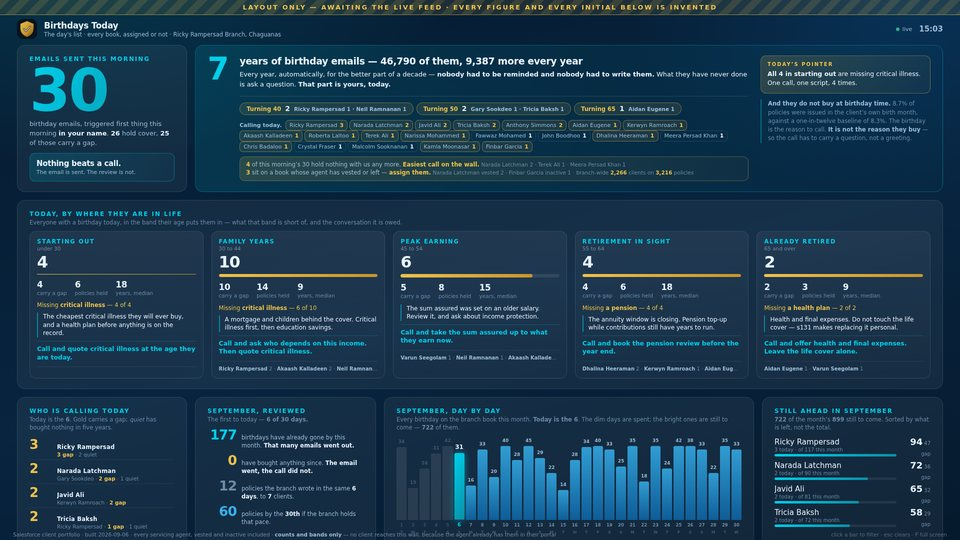
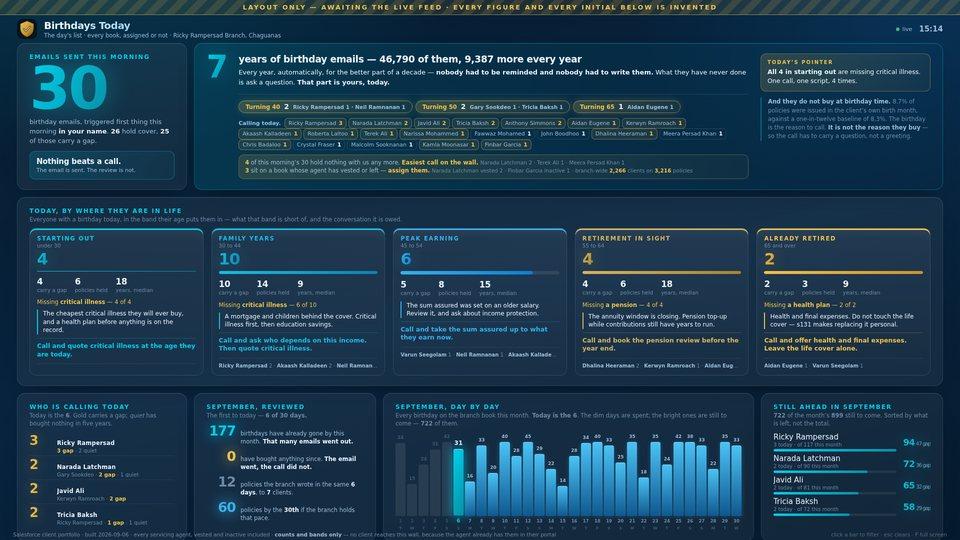
Make it read from the back of the room
A design pass, and every part of it is colour, an inset shadow or a filter —
this layout is three fixed rows totalling 968px with no spare pixel anywhere, so
nothing here is allowed to cost height.

THE FIVE BANDS NOW READ AS ONE JOURNEY, cool to warm: bright teal at the start of
a working life through to the branch gold at the end of it, with the accent
carried through each band's label, its number, its meter, its talking point and
its instruction. Somebody crossing the room can tell which end of the wall they
are looking at before they read a word. A 3px rule on top of five cards would
have cost fifteen pixels, so it is an inset shadow instead. Gold still means a
gap on every band — the accent says which stage this is, gold says something is
missing, and that has to mean the same thing on all five.

The rest: a spotlight on the body so the cards have an edge to catch and the wall
has a top; today's bar in the day strip burns and the days ahead glow while the
spent ones go grey; every headline number carries its own light. The live dot
beats.

AND THE FOOTER WAS SITTING ON THE BOTTOM ROW OF CARDS. Fixed rows plus a fixed
footer means any change to the header slides the last row under it, which is
what a bigger heading did — the source line was drawn across the cards and no
per-card check could see it, because nothing was clipped. The header gives back
eight pixels and the gaps four; the lowest card now ends at 1056 against a footer
[…]

Changed region(s): [[0.0312, 0.3852, 0.9688, 0.9778], [0.0312, 0.0296, 0.9688, 0.3556]]

diff --git a/intelligence/wall/book.html b/intelligence/wall/book.html
@@ -39,7 +39,12 @@
   }
   *{box-sizing:border-box}
   html,body{height:100%;min-height:100vh}
-  body{margin:0;font-family:var(--font-b);color:var(--ink);background:#061c31;
+  /* A SPOTLIGHT, NOT A FLAT FIELD. Two thousand pixels of one navy reads as a
+     spreadsheet from the back of a room; a light source above the hero gives
+     the cards an edge to catch and the whole wall a top. Costs nothing in
+     layout — it is one gradient on the body. */
+  body{margin:0;font-family:var(--font-b);color:var(--ink);
+    background:#061c31 radial-gradient(1500px 780px at 14% -12%,#0d3454 0%,#082742 42%,#061c31 78%) fixed;
     overflow:hidden;-webkit-font-smoothing:antialiased}
   body::before{content:"";position:fixed;inset:0;z-index:-1;
     background:
@@ -51,11 +56,17 @@
   header .mark{width:40px;height:40px;flex:none;border-radius:12px;overflow:hidden;
     background:#07131f;display:grid;place-items:center}
   header .mark img{width:40px;height:40px;display:block}
-  header h1{margin:0;font-family:var(--font-d);font-size:17px;font-weight:800;letter-spacing:-.3px}
+  header h1{margin:0;font-family:var(--font-d);font-size:20px;font-weight:800;
+    letter-spacing:-.5px;background:linear-gradient(100deg,#ffffff,#9fd8ff);
+    -webkit-background-clip:text;background-clip:text;color:transparent;width:max-content}
   header .sub{font-size:11.5px;color:var(--dim);margin-top:1px}
   header .right{margin-left:auto;display:flex;align-items:center;gap:14px}
   .live{display:inline-flex;align-items:center;gap:6px;font-size:11px;color:var(--dim)}
   .live i{width:7px;height:7px;border-radius:50%;background:var(--gold)}
+  /* A wall nobody is standing at should still look alive from the door. */
+  .live.on i{background:var(--good);animation:beat 2.4s var(--ease) infinite}
+  @keyframes beat{0%,100%{box-shadow:0 0 0 0 rgba(52,211,153,.55)}
+                  70%{box-shadow:0 0 0 9px rgba(52,211,153,0)}}
   .live.on i{background:var(--good);animation:pulse 2.2s infinite}
   @keyframes pulse{0%,100%{opacity:1}50%{opacity:.5}}
   #clock{font-family:var(--font-d);font-weight:700;font-size:15px;
@@ -96,15 +107,19 @@
      to itself it set a floor of 630px on a 390px phone and pushed every card
      off the side of the screen. */
   .card{background:var(--card);border:1px solid var(--line);border-radius:var(--r);
-    padding:16px 18px;min-height:0;min-width:0;display:flex;flex-direction:column}
+    padding:16px 18px;min-height:0;min-width:0;display:flex;flex-direction:column;
+    /* inset, so the highlight costs no height — a 1px outset rule would push
+       every card down and this wall has no spare pixels anywhere */
+    box-shadow:inset 0 1px 0 rgba(255,255,255,.075), 0 18px 40px -28px rgba(0,0,0,.75)}
   .card h3{margin:0 0 2px;font:700 12px var(--font-b);letter-spacing:.16em;
     text-transform:uppercase;color:var(--teal)}
   .card .cap{font-size:11.5px;color:var(--faint);margin:0 0 9px;line-height:1.4}
 
   .hero{grid-column:1;justify-content:center}
-  .hero .big{font-family:var(--font-d);font-weight:800;font-size:58px;line-height:.9;
-    letter-spacing:-4px;background:var(--grad-teal);-webkit-background-clip:text;
-    background-clip:text;color:transparent}
+  .hero .big{font-family:var(--font-d);font-weight:800;font-size:64px;line-height:.9;
+    letter-spacing:-4.5px;background:var(--grad-teal);-webkit-background-clip:text;
+    background-clip:text;color:transparent;width:max-content;
+    filter:drop-shadow(0 0 26px rgba(0,207,234,.42))}
   .hero .cap2{font-size:13px;color:var(--dim);margin-top:6px;line-height:1.45}
   .hero .cap2 b{color:var(--ink)}
   .hero .split{display:flex;gap:20px;margin-top:18px;padding-top:16px;border-top:1px solid var(--line)}
@@ -145,10 +160,16 @@
   .row .track{height:6px;background:rgba(255,255,255,.07);border-radius:3px;margin-top:3px;overflow:hidden}
   .row .track i{display:block;height:100%;border-radius:4px;background:var(--grey);
     transition:width .55s var(--ease)}
-  .row .track i.gold{background:var(--grad-gold)} .row .track i.accent{background:var(--grad)}
-  .row .track i.teal{background:var(--grad-teal)}
+  .row .track i.gold{background:var(--grad-gold);box-shadow:0 0 12px rgba(239,194,75,.4)}
+  .row .track i.accent{background:var(--grad);box-shadow:0 0 12px rgba(55,177,236,.4)}
+  .row .track i.teal{background:var(--grad-teal);box-shadow:0 0 12px rgba(0,207,234,.45)}
   .row .val{font-family:var(--font-d);font-weight:700;font-size:16px;text-align:right;
     font-variant-numeric:tabular-nums}
+  /* The month leaderboard's own numbers, lit like the rest of the wall. */
+  .month .row .val{font-size:24px;letter-spacing:-1px;background:var(--grad-teal);
+    -webkit-background-clip:text;background-clip:text;color:transparent;
+    filter:drop-shadow(0 0 14px rgba(0,207,234,.40))}
+  .month .row .val small{-webkit-text-fill-color:var(--faint);filter:none}
   /* This wall counts clients in the thousands and shows a share beside them, so
      the value column needs more room than the other three walls give it —
      "9,592 72%" was clipping to "9,592 7:". */
@@ -259,7 +280,9 @@
     background:linear-gradient(100deg,rgba(0,207,234,.13),rgba(0,207,234,.02));
     border-color:rgba(0,207,234,.30);padding:15px 22px}
   .years .yn{font-family:var(--font-d);font-weight:800;font-size:62px;line-height:.86;
-    letter-spacing:-3px;color:var(--teal);flex:none}
+    letter-spacing:-3px;flex:none;background:var(--grad-teal);
+    -webkit-background-clip:text;background-clip:text;color:transparent;
+    filter:drop-shadow(0 0 20px rgba(0,207,234,.38))}
   .years .ytxt{flex:1;min-width:0}
   .years .hd{font-family:var(--font-d);font-weight:800;font-size:19px;color:var(--ink);
     letter-spacing:-.4px;margin-bottom:6px}
@@ -273,8 +296,10 @@
   /* The chip names the agent. A round-number birthday nobody is told about is
      just another Tuesday, and the branch asked for the names on the big ones. */
   .years .mile{display:inline-flex;align-items:baseline;gap:8px;
-    border:1px solid rgba(239,194,75,.4);background:rgba(239,194,75,.10);
-    border-radius:999px;padding:4px 13px}
+    border:1px solid rgba(239,194,75,.45);
+    background:linear-gradient(120deg,rgba(239,194,75,.20),rgba(239,194,75,.06));
+    border-radius:999px;padding:4px 13px;
+    box-shadow:0 0 18px -6px rgba(239,194,75,.5), inset 0 1px 0 rgba(255,255,255,.10)}
   .years .mile i{font-style:normal;font:800 11.5px var(--font-b);color:var(--gold)}
   .years .mile u{text-decoration:none;font-family:var(--font-d);font-weight:800;font-size:14px;
     color:var(--ink);line-height:1}
@@ -318,10 +343,15 @@
   .mrows{display:grid;grid-auto-flow:column;grid-auto-columns:minmax(0,1fr);gap:3px;align-items:end;
     flex:1;min-height:0;padding-top:4px}
   .mcol{display:flex;flex-direction:column;justify-content:flex-end;height:100%;gap:5px;min-width:0}
-  .mcol .bar{background:linear-gradient(180deg,rgba(55,177,236,.85),rgba(11,127,212,.6));
-    border-radius:3px 3px 1px 1px;min-height:2px}
-  .mcol.past .bar{background:rgba(255,255,255,.09)}
-  .mcol.now .bar{background:var(--grad-teal);box-shadow:0 0 14px rgba(0,207,234,.5)}
+  /* THE RUNWAY IS LIT AND THE SPENT DAYS ARE NOT. Same shape as before, but the
+     days still to come now glow and today burns — from the back of the room the
+     eye lands on the sixth before it reads a single number. */
+  .mcol .bar{background:linear-gradient(180deg,#4cc3f5,rgba(11,127,212,.55));
+    border-radius:4px 4px 1px 1px;min-height:2px;
+    box-shadow:0 0 10px rgba(55,177,236,.30), inset 0 1px 0 rgba(255,255,255,.35)}
+  .mcol.past .bar{background:rgba(255,255,255,.085);box-shadow:none}
+  .mcol.now .bar{background:var(--grad-teal);
+    box-shadow:0 0 22px rgba(0,207,234,.75), inset 0 1px 0 rgba(255,255,255,.6)}
   .mcol .ml{font:600 8.5px var(--font-b);color:var(--faint);text-align:center;
     font-variant-numeric:tabular-nums}
   .mcol.past .ml{opacity:.38}
@@ -341,15 +371,32 @@
      wide enough to push the fifth band off the edge of the card. */
   .clist{display:grid;grid-template-columns:repeat(5,minmax(0,1fr));gap:16px;
     overflow:hidden;flex:1;align-content:stretch}
+  /* THE FIVE BANDS READ AS ONE JOURNEY, COOL TO WARM. Each stage carries its own
+     accent — bright teal at the start of a working life, the branch gold at the
+     end of it — and the accent runs through the band's label, its number, its
+     meter and its instruction, so a person crossing the room can tell which end
+     of the wall they are looking at before they read a word. Every part of it is
+     colour or an INSET shadow: this row has no spare pixels, and a 3px rule on
+     top of five cards would cost fifteen. */
   .band{display:flex;flex-direction:column;min-height:0;
     border:1px solid var(--line);border-radius:13px;padding:13px 14px;
-    background:linear-gradient(180deg,rgba(255,255,255,.05),rgba(255,255,255,.015))}
+    --a:var(--teal); --a2:var(--teal2);
+    background:linear-gradient(180deg,rgba(255,255,255,.05),rgba(255,255,255,.015));
+    box-shadow:inset 0 3px 0 var(--a), inset 0 26px 34px -26px rgba(255,255,255,.09)}
+  .band:nth-child(1){--a:#00CFEA; --a2:#0891a8}
+  .band:nth-child(2){--a:#19BEE4; --a2:#0b83b4}
+  .band:nth-child(3){--a:#37B1EC; --a2:#0b7fd4}
+  .band:nth-child(4){--a:#D8B45E; --a2:#a8842f}
+  .band:nth-child(5){--a:#EFC24B; --a2:#c9942c}
   .band.empty{opacity:.42}
   .band .bk{font:800 11.5px var(--font-b);letter-spacing:.15em;text-transform:uppercase;
-    color:var(--teal)}
+    color:var(--a)}
   .band .br{font-size:10.5px;color:var(--faint);margin-top:1px}
   .band .bn{font-family:var(--font-d);font-weight:800;font-size:32px;line-height:1;
-    letter-spacing:-1.4px;margin:5px 0 8px}
+    letter-spacing:-1.4px;margin:5px 0 8px;width:max-content;
+    background:linear-gradient(120deg,var(--a),var(--a2));
+    -webkit-background-clip:text;background-clip:text;color:transparent;
+    filter:drop-shadow(0 0 16px color-mix(in srgb,var(--a) 34%,transparent))}
   /* NO CHIPS. Two initials per person were on here for a day and the branch's
      answer was the right one: an agent already has these clients in their
      portal, so the wall does not need to identify anybody — it needs to say
@@ -361,6 +408,7 @@
   .led{display:grid;grid-template-columns:58px minmax(0,1fr);gap:10px;align-items:baseline}
   .led .n{font-family:var(--font-d);font-weight:800;font-size:27px;line-height:1;
     letter-spacing:-1.2px;text-align:right}
+  .led.sent .n,.led.back .n,.led.proj .n{filter:drop-shadow(0 0 14px currentColor)}
   .led .t{font-size:11.5px;color:var(--dim);line-height:1.35}
   .led .t b{color:var(--ink);font-weight:600}
   .led.sent .n{color:var(--teal)}
@@ -375,11 +423,15 @@
 
   .band .meter{height:7px;border-radius:4px;background:rgba(255,255,255,.09);
     overflow:hidden;margin-bottom:9px}
-  .band .meter i{display:block;height:100%;background:var(--grad-gold);border-radius:4px}
+  .band .meter i{display:block;height:100%;border-radius:4px;
+    background:linear-gradient(120deg,var(--a),var(--a2));
+    box-shadow:0 0 12px color-mix(in srgb,var(--a) 45%,transparent)}
   .band .facts{display:flex;gap:16px;margin-bottom:9px}
   .band .facts div{font-size:10.5px;color:var(--faint);line-height:1.3}
   .band .facts b{display:block;font-family:var(--font-d);font-weight:800;font-size:17px;
     color:var(--ink);letter-spacing:-.4px}
+  /* The gap stays gold on every band. The accent says which stage this is; gold
+     says something is missing, and it has to mean the same thing on all five. */
   .band .miss{font-size:11.5px;color:var(--gold);line-height:1.4;margin-bottom:7px}
   .band .miss b{font-family:var(--font-d);font-weight:800}
   /* NO margin-bottom:auto HERE, deliberately. Pinning the agent line to the
@@ -389,7 +441,7 @@
      an auto margin absorbs the overflow into itself. Content that simply flows
      is content a check can measure. */
   .band .talk{font-size:12px;color:var(--ink);line-height:1.38;
-    border-left:2px solid rgba(0,207,234,.55);padding-left:10px}
+    border-left:2px solid var(--a);padding-left:10px}
   /* One line, clipped with an ellipsis, and the overflow counted rather than
      wrapped — a second line here is drawn below the bottom of the card. */
   .band .who{font-size:10px;color:var(--faint);line-height:1.45;margin-top:10px;
@@ -489,7 +541,9 @@
     border-bottom:1px solid rgba(255,255,255,.07)}
   .mrow:last-child{border-bottom:0}
   .mrow .age{font-family:var(--font-d);font-weight:800;font-size:26px;line-height:1;
-    letter-spacing:-1px;color:var(--gold);min-width:44px}
+    letter-spacing:-1px;min-width:44px;background:var(--grad-gold);
+    -webkit-background-clip:text;background-clip:text;color:transparent;
+    filter:drop-shadow(0 0 14px rgba(239,194,75,.45))}
   .mrow .mt{flex:1;min-width:0}
   .mrow .mt .t{font:700 11.5px var(--font-b);color:var(--ink);letter-spacing:.02em}
   .mrow .mt .a{font-size:10.5px;color:var(--faint);margin-top:2px;
@@ -499,9 +553,9 @@
   .miles .none{font-size:12px;color:var(--faint);line-height:1.55}
 
   /* the instruction, which is the point of the band */
-  .band .act{font-family:var(--font-d);font-weight:800;font-size:12.5px;color:var(--teal);
+  .band .act{font-family:var(--font-d);font-weight:800;font-size:12.5px;color:var(--a);
     line-height:1.32;margin-top:7px;padding-top:7px;
-    border-top:1px solid rgba(0,207,234,.24)}
+    border-top:1px solid color-mix(in srgb,var(--a) 26%,transparent)}
 
   .hero .who{margin-top:9px;padding-top:9px;border-top:1px solid var(--line);
     font-size:11px;color:var(--faint);line-height:1.45}
@@ -518,11 +572,17 @@
      source order decides, so they go last.
      ══════════════════════════════════════════════════════════════════════ */
   @media (min-width:1700px){
-    main{grid-template-columns:340px 1fr 1fr 1fr 1fr;gap:16px;padding:0 34px 24px}
+    /* THE FOOTER WAS SITTING ON THE BOTTOM ROW. Three fixed rows come to 968px;
+       with a 16px gap and a 70px header the last card ended at 1070 and the
+       footer starts at 1063, so the source line was drawn across the cards. The
+       header gives back eight pixels and the gaps four, which puts the bottom
+       edge at 1056 with room to spare. Measured, not guessed — see hdrchk. */
+    main{grid-template-columns:340px 1fr 1fr 1fr 1fr;gap:14px;padding:0 34px 24px}
     .hero .big{font-size:118px} .card{padding:20px 24px}
     .row .lbl{font-size:15px} .row .val{font-size:19px} .arow{font-size:15px}
+    .month .row .val{font-size:27px}
     .law .n{font-size:72px} .law .txt{font-size:17px} .sgrid .v{font-size:38px}
-    header{padding:18px 34px 12px} main{height:calc(100vh - 74px)}
+    header{padding:12px 34px 8px} main{height:calc(100vh - 60px)}
   }
   /* ══════════════════════════════════════════════════════════════════════
      THE WALL IS ALSO A PHONE

diff --git a/INTELLIGENCE-SETUP.md b/INTELLIGENCE-SETUP.md
@@ -974,6 +974,34 @@ The header and the footer used to say **active agents only**. They do not any
 more, because that is no longer true and a wall whose footer disagrees with its
 figures is worse than one with no footer at all.
 
+#### How it is meant to look from the door
+
+The wall hangs in a room people walk through, and it has to read from the back
+of it. The pass that got it there is all colour and light and **no height** —
+this layout has three fixed rows totalling 968px and not a spare pixel anywhere,
+so every effect below is either a colour, an `inset` shadow or a filter.
+
+- **A spotlight, not a flat field.** One radial gradient on the body gives the
+  cards an edge to catch and the wall a top.
+- **The five bands read as one journey, cool to warm.** Bright teal at the start
+  of a working life through to the branch gold at the end of it, and the accent
+  runs through each band's label, its number, its meter and its instruction. A
+  3px rule on top of five cards would have cost fifteen pixels, so it is an
+  `inset` shadow. **Gold still means a gap on every band** — the accent says
+  which stage, gold says something is missing, and that has to mean one thing
+  across all five.
+- **The runway is lit and the spent days are not.** Today's bar burns, the days
+  ahead glow, the days gone are grey.
+- **Every headline number carries its own light** — the hero, the seven, the
+  ledger's four, the leaderboard's.
+
+**And the footer was sitting on the bottom row.** Fixed rows plus a fixed footer
+means any change to the header height slides the last row underneath it, which
+is exactly what a bigger `h1` did: the source line was drawn across the cards and
+no per-card check could see it, because nothing was clipped. The header gives
+back eight pixels and the gaps four. `booku.js` now fails the whole wall if the
+lowest card's bottom crosses the footer's top.
+
 #### Who is calling today
 
 The branch's own question in one panel: today is the sixth, these are the agents
